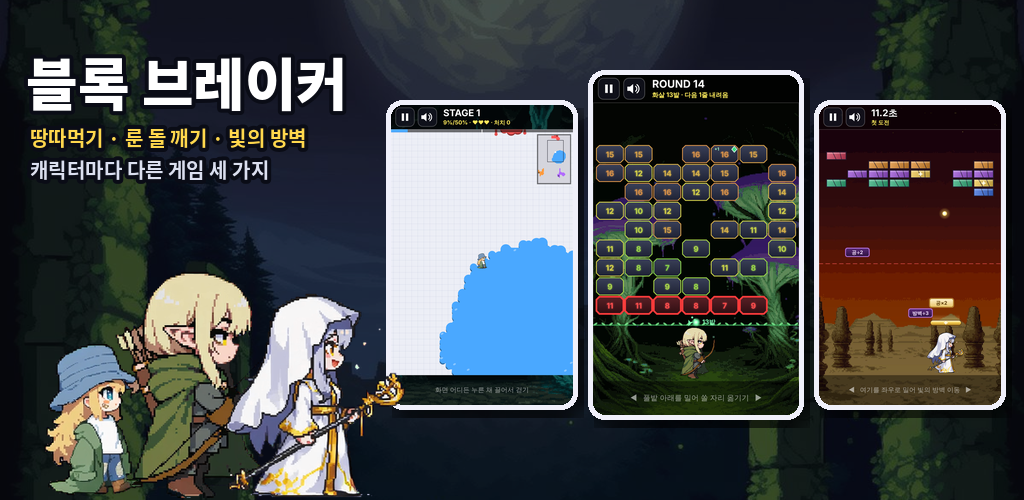
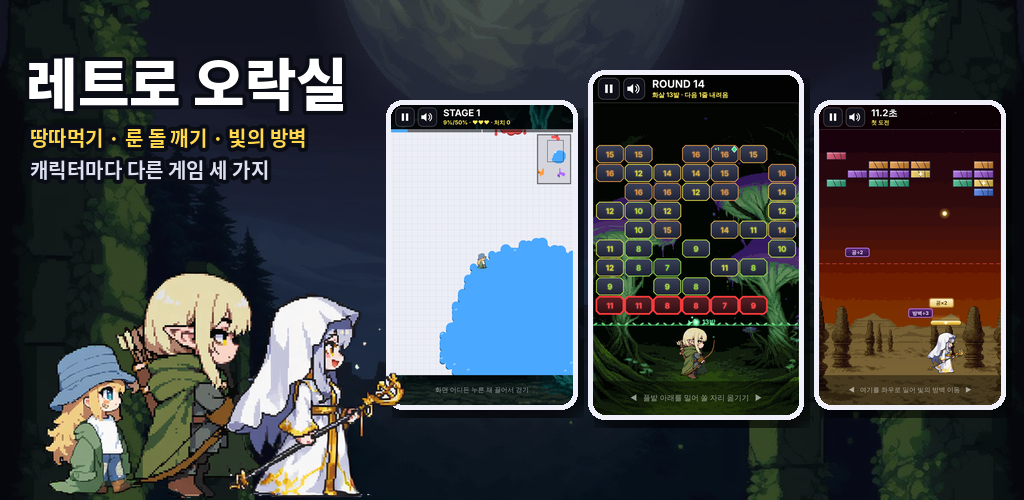
모바일: 앱 이름을 '레트로 오락실'로 (메뉴 제목, 안드로이드 앱 이름·시작 화면, 약관, 스토어 그래픽)
Claude-Session: https://claude.ai/code/session_01H5NzThzx7Gj715H5iL8oZa

Changed region(s): [[0.0312, 0.09, 0.3438, 0.24]]

diff --git a/mobile/src/appinfo.ts b/mobile/src/appinfo.ts
@@ -146,7 +146,7 @@ function openDoc(title: string, html: string, back: () => void): void {
 // ---------- 문서 ----------
 function privacyHtml(): string {
   return `
-<p>블록 브레이커(이하 '게임')는 이용자의 개인정보를 소중히 다루며, 개인정보 보호법 등 관련 법령을 지킵니다.</p>
+<p>레트로 오락실(이하 '게임')는 이용자의 개인정보를 소중히 다루며, 개인정보 보호법 등 관련 법령을 지킵니다.</p>
 <h3>1. 수집하는 개인정보</h3>
 <p>게임은 이름, 연락처, 이메일, 위치 등 이용자를 알아볼 수 있는 개인정보를 수집하지 않습니다. 회원가입도 없습니다.</p>
 <h3>2. 기기에 저장하는 정보</h3>
@@ -168,7 +168,7 @@ function privacyHtml(): string {
 <h3>8. 이용자의 권리</h3>
 <p>이용자는 기기에 저장된 정보를 언제든 지울 수 있습니다. 궁금한 점은 아래로 문의해 주세요.</p>
 <h3>9. 개인정보 보호 담당</h3>
-<p>블록 브레이커 개발자 · ${CONTACT_EMAIL}</p>
+<p>레트로 오락실 개발자 · ${CONTACT_EMAIL}</p>
 <h3>10. 방침의 변경</h3>
 <p>이 방침이 바뀌면 게임 안에서 알려 드립니다.</p>
 <p class="muted">시행일: ${POLICY_DATE}</p>`;
@@ -177,7 +177,7 @@ function privacyHtml(): string {
 function termsHtml(): string {
   return `
 <h3>제1조 (목적)</h3>
-<p>이 약관은 블록 브레이커(이하 '게임')를 이용하는 데 필요한 사항을 정합니다.</p>
+<p>이 약관은 레트로 오락실(이하 '게임')를 이용하는 데 필요한 사항을 정합니다.</p>
 <h3>제2조 (서비스)</h3>
 <p>게임은 무료로 제공되며, 유료 결제나 광고가 없습니다. 게임의 내용은 더 나은 서비스를 위해 바뀔 수 있습니다.</p>
 <h3>제3조 (이용자의 의무)</h3>

diff --git a/mobile/src/render.ts b/mobile/src/render.ts
@@ -1284,7 +1284,7 @@ function drawMenu(ctx: Ctx, game: Game, v: View): void {
   ctx.save();
   ctx.translate(0, menuTop());   // 메뉴 내용은 640 높이 상자로 가운데에
 
-  text(ctx, '블록 브레이커', World.Width / 2, 60, 38, WHITE, { bold: true });
+  text(ctx, '레트로 오락실', World.Width / 2, 60, 38, WHITE, { bold: true });
   text(ctx, '캐릭터를 고르세요', World.Width / 2, 112, 16, GRAY);
 
   for (let i = 0; i < Characters.List.length; i++) {

diff --git a/mobile/index.html b/mobile/index.html
@@ -5,7 +5,7 @@
     <meta name="viewport" content="width=device-width, initial-scale=1, maximum-scale=1, user-scalable=no, viewport-fit=cover" />
     <meta name="theme-color" content="#14161f" />
     <link rel="icon" href="data:," />
-    <title>블록 브레이커</title>
+    <title>레트로 오락실</title>
     <link rel="stylesheet" href="./src/style.css" />
   </head>
   <body>

diff --git a/mobile/capacitor.config.ts b/mobile/capacitor.config.ts
@@ -3,7 +3,7 @@ import type { CapacitorConfig } from '@capacitor/cli';
 // 안드로이드 앱 설정 (npx cap sync android 로 android/ 폴더에 반영)
 const config: CapacitorConfig = {
   appId: 'io.github.dyd8115.blockbreaker',
-  appName: '블록 브레이커',
+  appName: '레트로 오락실',
   webDir: 'dist',
   backgroundColor: '#14161f',
   android: {

diff --git a/mobile/tools/play_art.py b/mobile/tools/play_art.py
@@ -1,0 +1,51 @@
+# 구글 플레이 그래픽 이미지(1024x500)를 만든다. 스크린샷 3장과 캐릭터, 제목
+# 사용: python tools/play_art.py  (store/screenshot*_636x1048.png 와 public/assets 를 씀)
+from PIL import Image, ImageDraw, ImageFont, ImageFilter
+
+TITLE = "레트로 오락실"
+W, H = 1024, 500
+bg = Image.open("public/assets/bg2.jpg").convert("RGB")
+bw, bh = bg.size
+s = max(W / bw, H / bh)
+bg = bg.resize((int(bw * s) + 1, int(bh * s) + 1))
+bg = bg.crop((0, (bg.size[1] - H) // 2, W, (bg.size[1] - H) // 2 + H))
+bg = Image.blend(bg, Image.new("RGB", (W, H), (14, 16, 28)), 0.45)
+img = bg.convert("RGBA")
+
+
+def phone(path, h):
+    sc = Image.open(path).convert("RGB")
+    w = int(sc.size[0] * h / sc.size[1])
+    sc = sc.resize((w, h), Image.LANCZOS)
+    fr = Image.new("RGBA", (w + 10, h + 10), (0, 0, 0, 0))
+    ImageDraw.Draw(fr).rounded_rectangle((0, 0, w + 9, h + 9), 16, fill=(240, 240, 250, 255))
+    mask = Image.new("L", (w, h), 0)
+    ImageDraw.Draw(mask).rounded_rectangle((0, 0, w - 1, h - 1), 12, fill=255)
+    fr.paste(sc, (5, 5), mask)
+    return fr
+
+
+phs = [phone(f"store/screenshot{i}_636x1048.png", h) for i, h in [(1, 300), (2, 340), (3, 300)]]
+total = sum(p.size[0] for p in phs) + 2 * 10
+left = W - total - 18
+x = left
+for ph, dy in zip(phs, [100, 70, 100]):
+    sh = Image.new("RGBA", ph.size, (0, 0, 0, 0))
+    sh.paste((0, 0, 0, 150), (0, 0, ph.size[0], ph.size[1]), ph.split()[3])
+    img.alpha_composite(sh.filter(ImageFilter.GaussianBlur(8)), (x + 6, dy + 8))
+    img.alpha_composite(ph, (x, dy))
+    x += ph.size[0] + 10
+ch = Image.open("public/assets/characters.png").convert("RGBA")
+cw, chh = ch.size[0] // 16, ch.size[1] // 3
+for i in range(3):
+    c = ch.crop((0, i * chh, cw, (i + 1) * chh)).resize((int(cw * 0.95), int(chh * 0.95)), Image.LANCZOS)
+    img.alpha_composite(c, (i * int((left - 170) / 2), H - c.size[1] - 2))
+d = ImageDraw.Draw(img)
+ft = ImageFont.truetype("/usr/share/fonts/opentype/noto/NotoSansCJK-Black.ttc", 56, index=1)
+fs = ImageFont.truetype("/usr/share/fonts/opentype/noto/NotoSansCJK-Bold.ttc", 20, index=1)
+st = lambda xy, t, f, c: d.text(xy, t, font=f, fill=c, stroke_width=4, stroke_fill=(10, 12, 22))
+st((26, 40), TITLE, ft, (255, 255, 255))
+st((30, 122), "땅따먹기 · 룬 돌 깨기 · 빛의 방벽", fs, (255, 216, 77))
+st((30, 154), "캐릭터마다 다른 게임 세 가지", fs, (220, 224, 240))
+img.convert("RGB").save("store/play/feature_1024x500.png")
+print("store/play/feature_1024x500.png")

diff --git a/mobile/tools/make_android_res.py b/mobile/tools/make_android_res.py
@@ -68,7 +68,7 @@ def splashes():
         y = (h - s) // 2 - round(s * 0.15)
         img.alpha_composite(logo, ((w - s) // 2, y))
         f = ImageFont.truetype(font_path, max(12, round(s * 0.16)), index=1)
-        ImageDraw.Draw(img).text((w / 2, y + s + round(s * 0.2)), "블록 브레이커", font=f, fill=(255, 255, 255), anchor="mm")
+        ImageDraw.Draw(img).text((w / 2, y + s + round(s * 0.2)), "레트로 오락실", font=f, fill=(255, 255, 255), anchor="mm")
         img.convert("RGB").save(p)
     print("splash ok")
 

diff --git a/mobile/tools/make_web_preview.py b/mobile/tools/make_web_preview.py
@@ -14,7 +14,7 @@ css_name = re.search(r'href="\./assets/(index-[^"]+\.css)"', html).group(1)
 js = open(f"{dist}/assets/{js_name}", encoding="utf-8").read().replace("</script", "<\\/script")
 css = open(f"{dist}/assets/{css_name}", encoding="utf-8").read()
 
-page = f"""<title>블록 브레이커</title>
+page = f"""<title>레트로 오락실</title>
 <meta name="theme-color" content="#14161f">
 <style>{css}</style>
 <canvas id="screen"></canvas>

diff --git a/mobile/tools/store_art.py b/mobile/tools/store_art.py
@@ -8,7 +8,7 @@ import numpy as np
 from PIL import Image, ImageDraw, ImageFilter, ImageFont
 
 SRC, OUT = sys.argv[1], sys.argv[2]
-TITLE = "블록 브레이커"
+TITLE = "레트로 오락실"
 SUB = "캐릭터를 골라 벽돌을 깨부숴요"
 FONT_TITLE = ("/usr/share/fonts/opentype/noto/NotoSansCJK-Black.ttc", 1)
 FONT_SUB = ("/usr/share/fonts/opentype/noto/NotoSansCJK-Bold.ttc", 1)

diff --git a/mobile/tools/make_offline_html.py b/mobile/tools/make_offline_html.py
@@ -31,7 +31,7 @@ page = f"""<!doctype html>
 <meta charset="UTF-8">
 <meta name="viewport" content="width=device-width, initial-scale=1, maximum-scale=1, user-scalable=no, viewport-fit=cover">
 <meta name="theme-color" content="#14161f">
-<title>블록 브레이커</title>
+<title>레트로 오락실</title>
 <style>{css}</style>
 </head>
 <body>

diff --git a/mobile/README.md b/mobile/README.md
@@ -1,4 +1,4 @@
-# 블록 브레이커 (모바일 버전)
+# 레트로 오락실 (모바일 버전)
 
 캐릭터를 골라 패들로 벽돌을 깨는 세로형 모바일 게임입니다.
 저장소 루트의 PC 버전에서 출발해 TypeScript와 캔버스로 옮기고, 캐릭터마다 다른 게임 방식을 더했습니다. 앱인토스 SDK로 토스 미니앱에 올립니다.

diff --git a/mobile/store/play/listing.md b/mobile/store/play/listing.md
@@ -1,7 +1,7 @@
 # 구글 플레이 스토어 등록정보
 
 ## 앱 이름 (30자)
-블록 브레이커
+레트로 오락실
 
 ## 간단한 설명 (80자)
 꼬마·엘프·성녀, 캐릭터마다 다른 게임 세 가지! 땅따먹기, 룬 돌 깨기, 빛의 방벽
